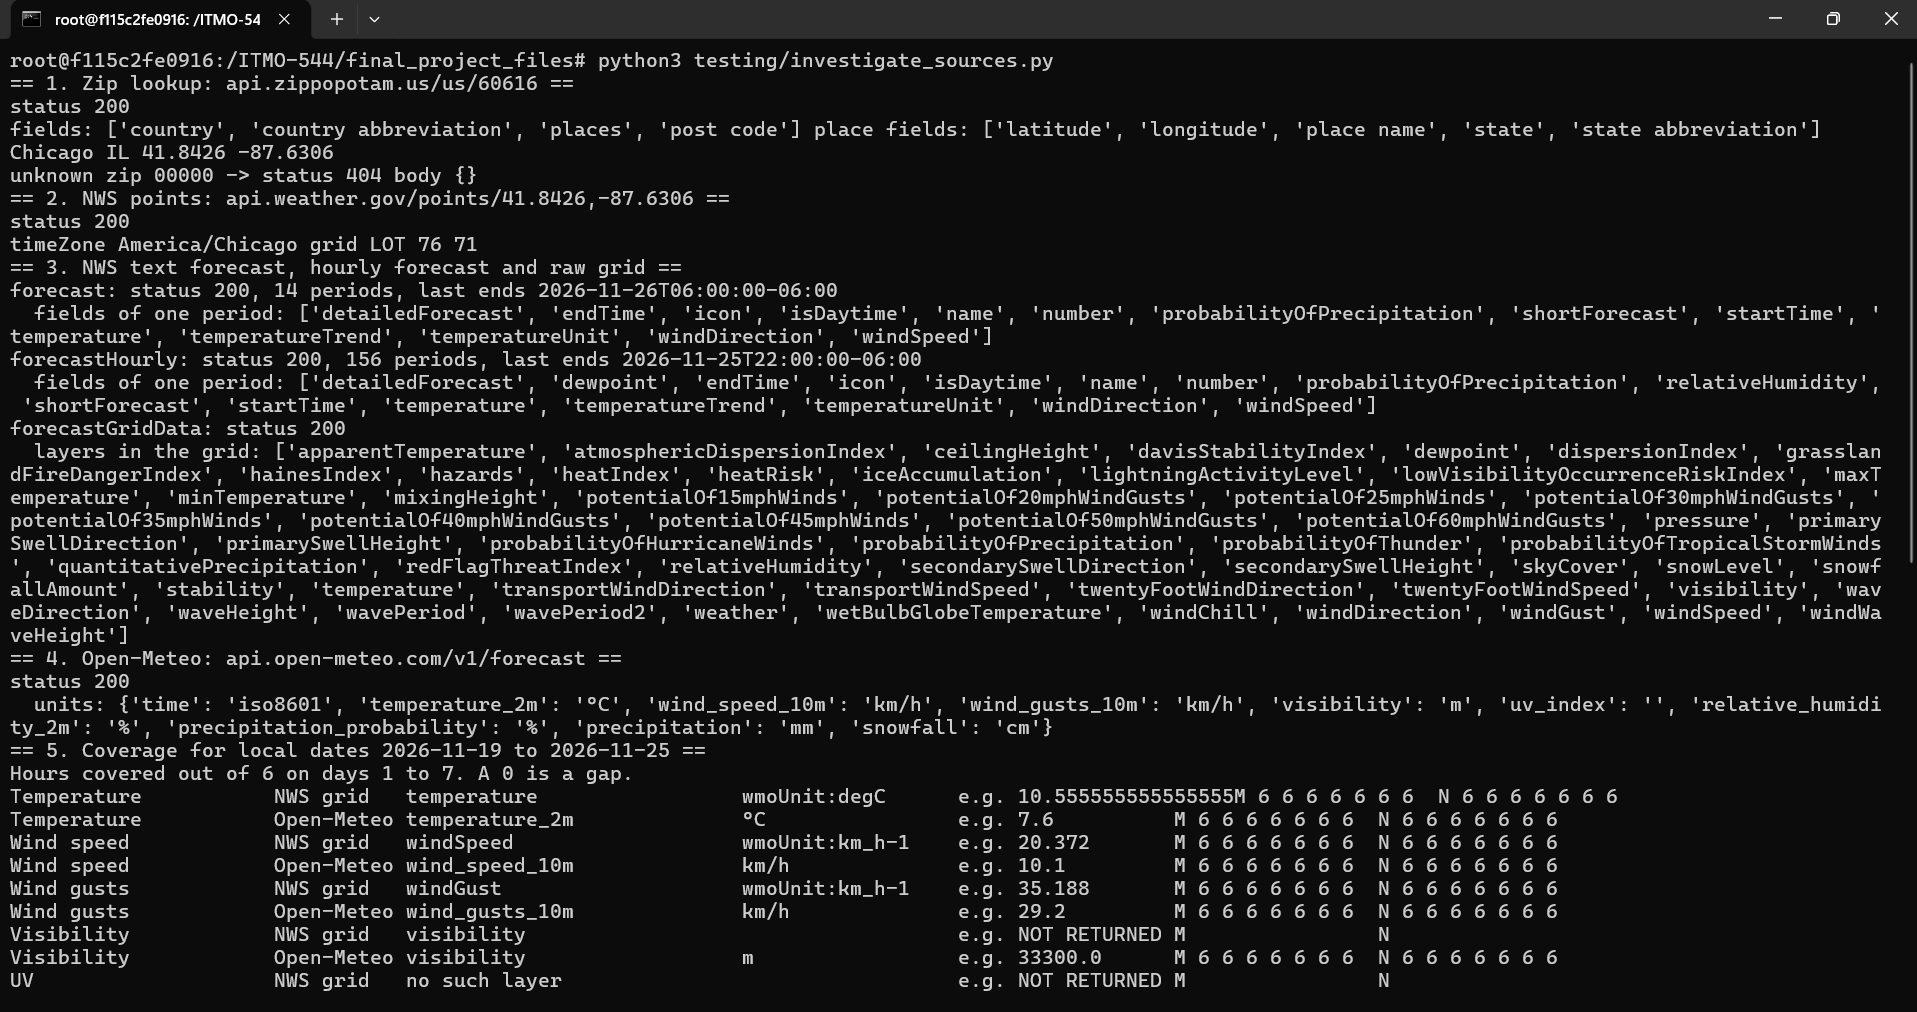
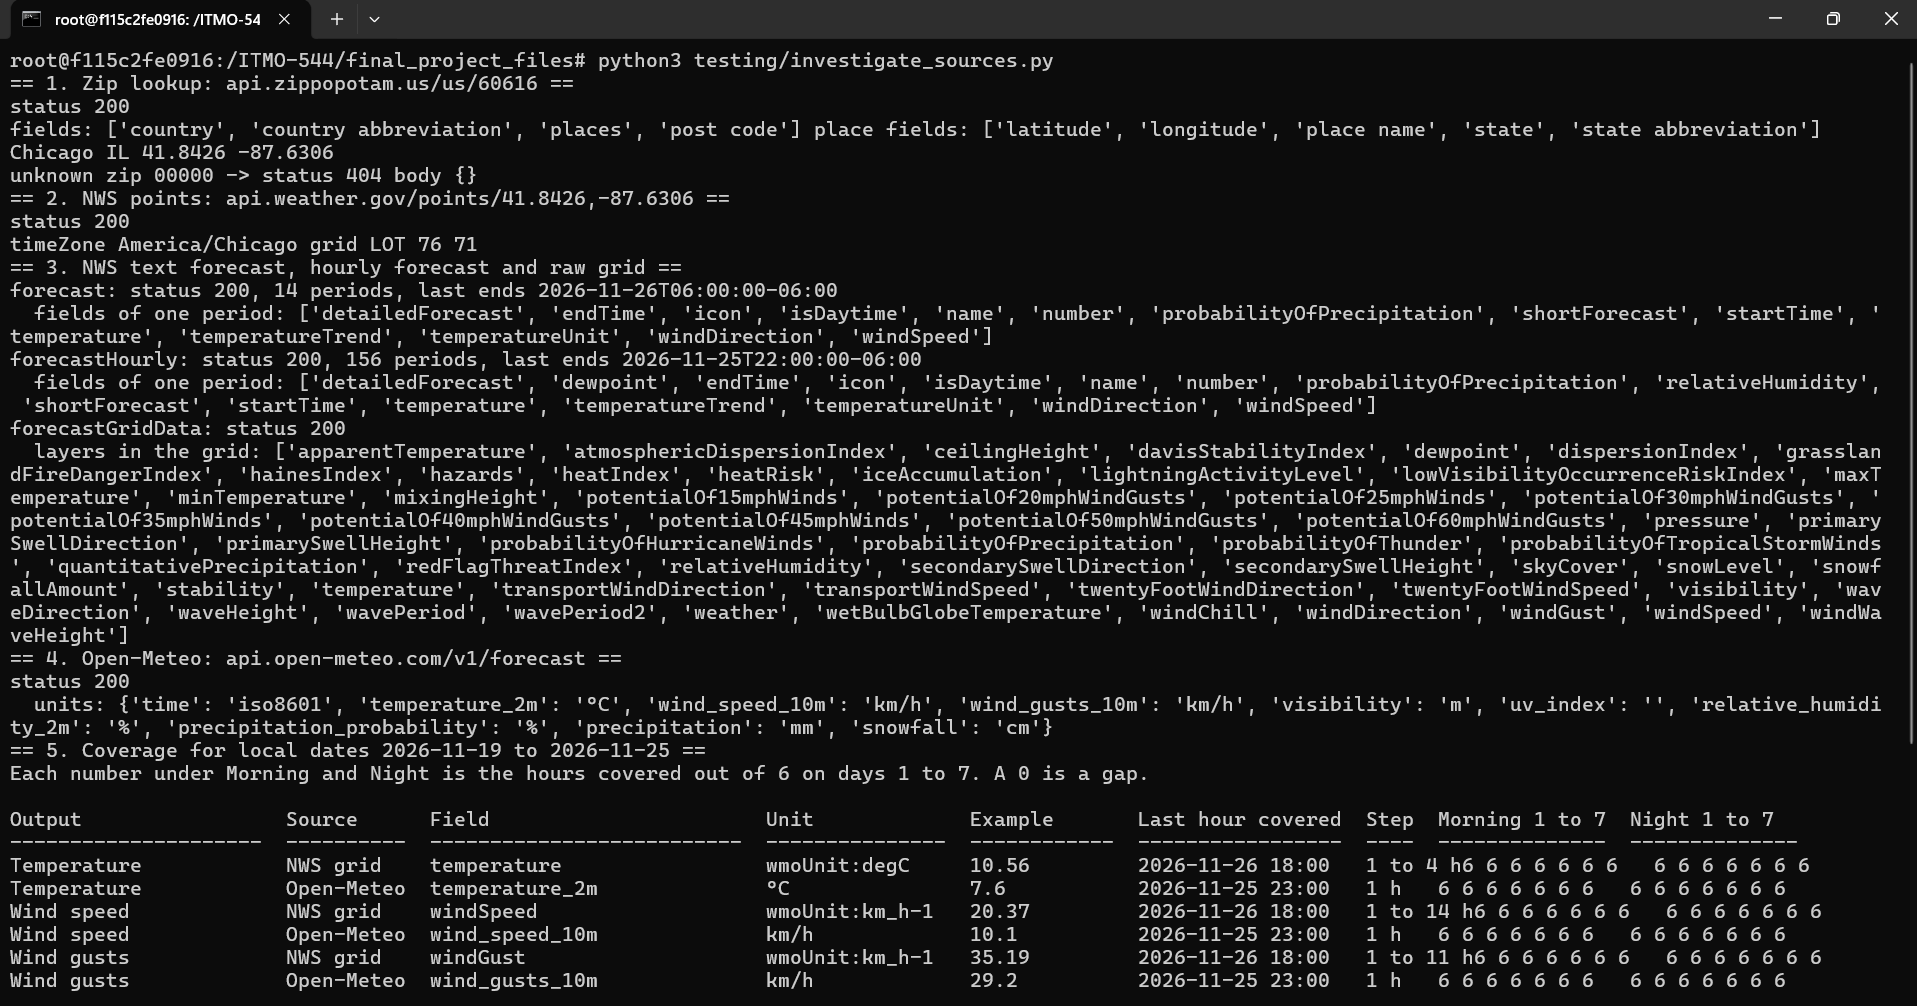
Modify code

diff --git a/final_project_files/create_database.py b/final_project_files/create_database.py
@@ -1,5 +1,4 @@
 #!/usr/bin/env python3
-"""Create the PostgreSQL database"""
 import argparse
 import logging
 import time
@@ -27,8 +26,6 @@ def main() -> None:
     print()
     print(f"Done. Database endpoint: {outputs.db_host}")
     print("Automated backups are OFF (retention 0) and no final snapshot will be taken on delete.")
-    print("Next: python3 create_weather_stack.py. When testing is finished: "
-          "python3 delete_weather_stack.py then python3 delete_database.py")
-
+    
 if __name__ == "__main__":
     main()

diff --git a/final_project_files/create_weather_stack.py b/final_project_files/create_weather_stack.py
@@ -1,5 +1,4 @@
 #!/usr/bin/env python3
-"""Build the weather advisor stack and note the time for the cost report."""
 import argparse
 import logging
 import sys
@@ -41,8 +40,6 @@ def main() -> None:
           "&date=YYYY-MM-DD")
     print(f"Advisor page:    http://{dns}:{settings.advisor.listener_port}/")
     print("Give the target groups 3 to 4 minutes to report healthy.")
-    print("Run python3 delete_weather_stack.py when the session ends.")
-
 
 if __name__ == "__main__":
     main()

diff --git a/final_project_files/delete_weather_stack.py b/final_project_files/delete_weather_stack.py
@@ -1,5 +1,4 @@
 #!/usr/bin/env python3
-"""Tear the weather advisor stack down and save the usage counts for the cost report."""
 import argparse
 import logging
 
@@ -26,7 +25,7 @@ def main() -> None:
         pass
     delete_weather_stack(settings, WeatherClients.create(settings.region))
     usage.record("deleted", usage=counts)
-    print("Stack removed. Run python3 delete_database.py as well, then python3 budget.py")
+    print("Stack removed.")
 
 
 if __name__ == "__main__":

diff --git a/final_project_files/Final Project.md b/final_project_files/Final Project.md
@@ -180,9 +180,8 @@ The same table applies to Morning and Night, because both periods are taken from
 
 ### 2.3 Evidence from the real responses
 
-*(Paste the content of `source_map_evidence.md` here after running `python3 testing/investigate_sources.py`.)*
-
-📸 Screenshot: the output of `python3 testing/investigate_sources.py`.
+![Investigate](./images/investigate1.png)
+![Investigate](./images/investigate2.png)
 
 ### 2.4 Questions the investigation must answer (Section 5.2)
 
